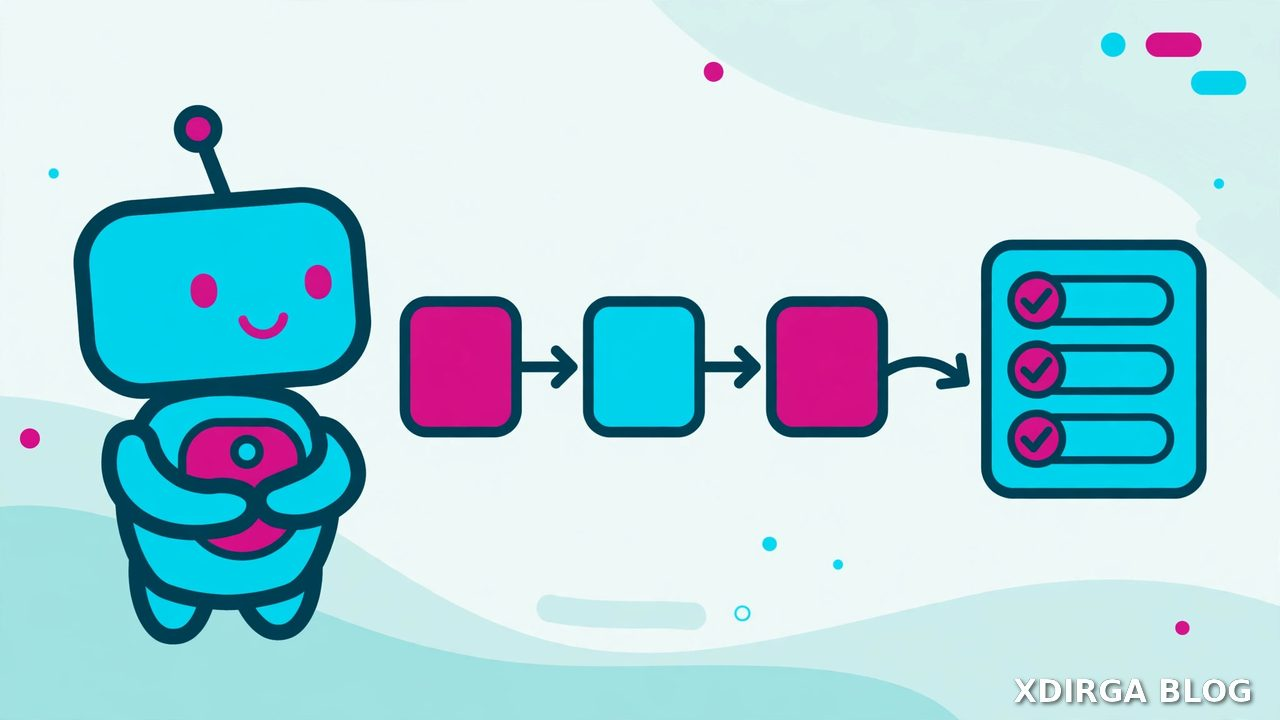
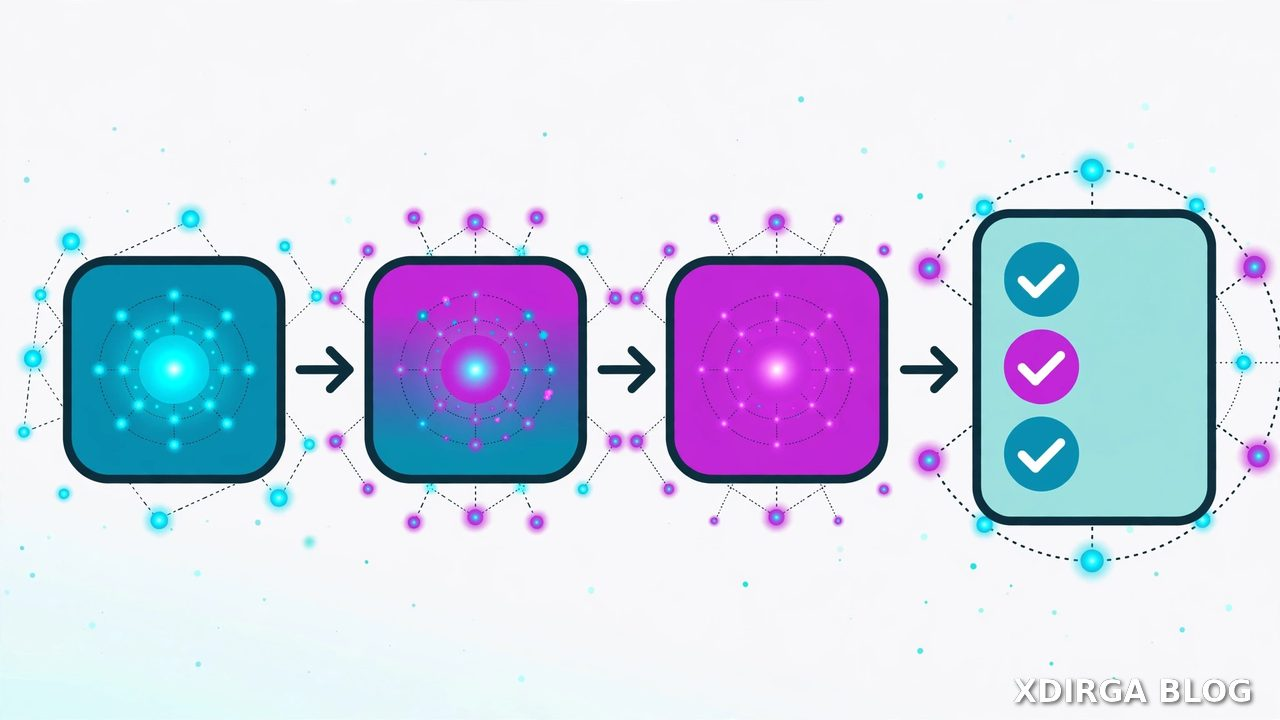
fix: ganti 3 cover berkarakter dengan gambar tanpa karakter (Manus, agen AI, pilih model)

diff --git a/src/content/articles/layanan-ai-gratis-makin-ketat.md b/src/content/articles/layanan-ai-gratis-makin-ketat.md
@@ -13,30 +13,30 @@ coverAlt: "Ilustrasi meteran jatah gratis yang menyempit dan dompet dengan koin"
 coverCaption: "Ilustrasi dibuat khusus untuk artikel ini."
 ---
 
-Kalau lo mengikuti dunia AI gratis, mungkin lo merasakan hal yang sama. Jatah yang dulu terasa longgar pelan pelan menyempit. Batas harian turun, antrean makin panjang, dan fitur yang dulu gratis pindah ke paket berbayar. Ini bukan kebetulan, dan bukan karena layanannya pelit.
+Kalau lo ngikutin dunia AI gratis, mungkin lo ngerasain hal yang sama. Jatah yang dulu terasa longgar pelan pelan menyempit. Batas harian turun, antrean makin panjang, dan fitur yang dulu gratis pindah ke paket berbayar. Ini bukan kebetulan, dan bukan karena layanannya pelit.
 
 ## Kenapa jatah gratis menyempit
 
-Ada tiga alasan yang saling berkaitan.
+Ada tiga alasan, dan ketiganya saling berkaitan.
 
-Pertama, biayanya nyata. Setiap jawaban yang dihasilkan model butuh komputasi, dan komputasi butuh listrik dan server. Makin banyak yang memakai, makin besar tagihannya. Layanan gratis dibiayai dari kantong perusahaan, dan kantong itu ada batasnya.
+Yang pertama soal biaya, dan biayanya nyata. Setiap jawaban yang dihasilkan model butuh komputasi, dan komputasi butuh listrik dan server. Makin banyak yang memakai, makin besar tagihannya. Layanan gratis dibiayai dari kantong perusahaan, dan kantong itu ada batasnya.
 
-Kedua, penyalahgunaan. Jatah gratis dipakai buat hal yang tidak dimaksudkan, misal menjalankan ribuan permintaan otomatis dari banyak akun. Satu penyalahguna bisa menghabiskan jatah ribuan pengguna biasa.
+Terus ada soal penyalahgunaan. Jatah gratis dipakai buat hal yang nggak dimaksudkan, misal jalanin ribuan permintaan otomatis dari banyak akun. Satu penyalahguna bisa ngabisin jatah ribuan pengguna biasa.
 
-Ketiga, perubahan model bisnis. Layanan gratis sering dipakai buat menarik pengguna baru. Setelah penggunanya cukup banyak, fokus bergeser ke yang berbayar. Ini pola yang sudah berulang di banyak layanan digital.
+Dan yang ketiga, perubahan model bisnis. Layanan gratis sering dipakai buat narik pengguna baru. Begitu penggunanya udah cukup banyak, fokus geser ke yang berbayar. Pola ini udah berulang di banyak layanan digital.
 
 ## Yang berubah buat pengguna
 
-Buat pengguna biasa, perubahan ini terasa dalam tiga hal. Batas harian yang dulu cukup buat seharian sekarang habis sebelum siang. Model yang dulu tersedia gratis sekarang cuma ada di paket berbayar. Dan fitur tambahan seperti unggah file besar atau riwayat panjang mulai dibatasi.
+Buat pengguna biasa, perubahannya kerasa langsung. Batas harian yang dulu cukup buat seharian sekarang habis sebelum siang. Model yang dulu tersedia gratis sekarang cuma ada di paket berbayar. Fitur tambahan kayak unggah file besar atau riwayat panjang juga mulai dibatasi.
 
 ## Cara menyikapinya
 
-Ada tiga langkah yang masuk akal.
+Ada tiga langkah yang masuk akal buat nyikapin ini.
 
-Pertama, jangan andalkan satu layanan. Punya dua atau tiga cadangan membuat kerjaan tidak berhenti saat satu layanan mengubah batasnya.
+Yang pertama, jangan andalkan satu layanan. Punya dua atau tiga cadangan bikin kerjaan nggak berhenti pas satu layanan mengubah batasnya.
 
-Kedua, pakai jatah gratis buat hal yang memang butuh model pintar. Buat tugas ringan, model yang lebih kecil atau tools lokal sering sudah cukup.
+Terus, pakai jatah gratis buat hal yang memang butuh model pintar. Buat tugas ringan, model yang lebih kecil atau tools lokal sering udah cukup.
 
-Ketiga, catat layanan mana yang masih memberi jatah tanpa tanggal berakhir. Daftar seperti itu berubah terus, jadi perlu dicek berkala. Di blog ini ada daftar API gratis yang masih jalan, dan akan diperbarui kalau ada perubahan.
+Terakhir, catat layanan mana yang masih ngasih jatah tanpa tanggal berakhir. Daftar kayak gitu berubah terus, jadi perlu dicek berkala. Di blog ini ada daftar API gratis yang masih jalan, dan bakal diperbarui kalau ada perubahan.
 
-Jatah gratis tidak akan hilang sepenuhnya. Tapi bentuknya akan terus berubah. Yang siap dengan cadangan akan baik baik saja, yang cuma mengandalkan satu layanan akan kerepotan setiap kali ada perubahan.
+Jatah gratis nggak bakal hilang sepenuhnya. Tapi bentuknya bakal terus berubah. Yang siap dengan cadangan bakal baik baik aja, yang cuma ngandelin satu layanan bakal kerepotan setiap kali ada perubahan.

diff --git a/src/content/articles/cara-kerja-rss.md b/src/content/articles/cara-kerja-rss.md
@@ -13,13 +13,13 @@ coverAlt: "Ilustrasi gelombang RSS mengalir ke tumpukan kartu artikel dan secang
 coverCaption: "Ilustrasi dibuat khusus untuk artikel ini."
 ---
 
-RSS sering dianggap teknologi jadul. Padahal cara kerjanya sederhana dan masih jalan sampai sekarang. Kalau lo capek dengan linimasa yang diatur algoritma, RSS adalah jalan keluarnya.
+RSS sering dicap teknologi jadul. Padahal cara kerjanya sederhana, dan sampai sekarang masih jalan. Kalau lo udah capek sama linimasa yang diatur algoritma, RSS itu jalan keluarnya.
 
 ## RSS itu apa
 
-RSS adalah berkas sederhana yang berisi daftar tulisan terbaru dari satu situs. Setiap situs yang mendukung RSS menyediakan alamat khusus, biasanya diakhiri dengan rss.xml. Berkas itu berisi judul, tautan, dan ringkasan tiap tulisan, dalam format yang bisa dibaca mesin.
+RSS itu berkas sederhana yang isinya daftar tulisan terbaru dari satu situs. Situs yang mendukung RSS nyediain alamat khusus, biasanya diakhiri rss.xml. Di dalam berkas itu ada judul, tautan, dan ringkasan tiap tulisan, dalam format yang bisa dibaca mesin.
 
-Pembaca RSS mengambil berkas itu secara berkala dan menampilkan tulisan baru dalam satu tempat. Lo tidak perlu membuka tiap situs satu satu. Semua tulisan baru dari situs yang lo ikuti muncul dalam satu daftar, urut berdasarkan waktu.
+Pembaca RSS ngambil berkas itu secara berkala, terus nampilin tulisan baru di satu tempat. Lo nggak perlu buka tiap situs satu satu. Semua tulisan baru dari situs yang lo ikuti muncul dalam satu daftar, urut berdasarkan waktu.
 
 ## Contoh isi berkas RSS
 
@@ -34,20 +34,20 @@ Satu item di dalam berkas RSS bentuknya kira kira seperti ini.
 </item>
 ```
 
-Tidak ada iklan, tidak ada pelacak, tidak ada algoritma yang memilihkan. Yang ada hanya daftar tulisan, urut dari yang terbaru.
+Nggak ada iklan, nggak ada pelacak, nggak ada algoritma yang milihin. Yang ada cuma daftar tulisan, urut dari yang terbaru.
 
 ## Kenapa masih berguna
 
-Ada tiga alasan RSS masih layak dipakai.
+Kenapa masih layak dipakai? Ada tiga alasan, dan ketiganya soal kendali.
 
-Pertama, lo yang memilih. Tidak ada algoritma yang menyembunyikan tulisan atau mendorong yang sedang viral. Yang muncul hanya dari situs yang lo ikuti sendiri.
+Yang pertama, lo yang memilih. Nggak ada algoritma yang nyembunyiin tulisan atau ndorong yang lagi viral. Yang muncul cuma dari situs yang lo ikuti sendiri.
 
-Kedua, tenang. Tidak ada notifikasi yang berlomba lomba menarik perhatian. Lo membuka pembaca RSS saat lo mau membaca, bukan saat aplikasi memanggil.
+Yang kedua, tenang. Nggak ada notifikasi yang rebutan narik perhatian. Lo buka pembaca RSS pas lo mau baca, bukan pas aplikasi manggil.
 
-Ketiga, awet. Situs boleh ganti desain, ganti platform, atau ganti pemilik. Selama alamat RSS-nya tetap, langganan lo tetap jalan.
+Yang ketiga, awet. Situs boleh ganti desain, ganti platform, atau ganti pemilik. Selama alamat RSS-nya tetap, langganan lo tetap jalan.
 
 ## Cara mulai
 
-Pilih satu aplikasi pembaca RSS, lalu tambahkan alamat RSS dari situs yang lo suka. Blog ini punya umpan di `/rss.xml`. Tambahkan, dan tulisan baru akan muncul sendiri tanpa perlu diingat.
+Tinggal pilih satu aplikasi pembaca RSS, terus tambahin alamat RSS dari situs yang lo suka. Blog ini punya umpan di `/rss.xml`. Tambahin, dan tulisan baru bakal muncul sendiri tanpa perlu diingat.
 
-Teknologi yang tenang seperti RSS jarang jadi berita, tapi justru itu kekuatannya. Dia bekerja diam diam, tanpa meminta perhatian, dan tetap jalan tahun demi tahun.
+Teknologi yang tenang kayak RSS jarang jadi berita. Justru itu kekuatannya. Dia kerja diam diam, tanpa minta perhatian, dan tetap jalan tahun demi tahun.

diff --git a/src/content/articles/lima-kebiasaan-kerja-rapi.md b/src/content/articles/lima-kebiasaan-kerja-rapi.md
@@ -13,26 +13,26 @@ coverAlt: "Ilustrasi meja kerja rapi dilihat dari atas dengan lima kartu tugas"
 coverCaption: "Ilustrasi dibuat khusus untuk artikel ini."
 ---
 
-Hari kerja yang berantakan jarang disebabkan satu masalah besar. Biasanya penyebabnya adalah banyak kekacauan kecil yang menumpuk. Lima kebiasaan di bawah ini sederhana, tapi efeknya terasa dalam seminggu.
+Hari kerja yang berantakan jarang disebabkan satu masalah besar. Biasanya penyebabnya banyak kekacauan kecil yang numpuk. Lima kebiasaan di bawah ini sederhana, tapi efeknya kerasa dalam seminggu.
 
 ## 1. Tulis tiga hal terpenting sebelum mulai
 
-Sebelum buka apa pun, tulis tiga hal yang harus selesai hari ini. Bukan sepuluh, cukup tiga. Tiga hal yang jelas bikin hari punya arah, dan sisanya jadi bonus.
+Sebelum buka apa pun, tulis tiga hal yang harus selesai hari ini. Bukan sepuluh, cukup tiga. Tiga hal yang jelas bikin hari punya arah. Sisanya jadi bonus.
 
 ## 2. Bereskan meja sebelum pulang
 
-Meja yang bersih di pagi hari bikin kepala ikut bersih. Lima menit sebelum pulang cukup buat merapikan, menutup tab yang tidak perlu, dan menulis satu kalimat soal apa yang dilanjutkan besok.
+Meja yang bersih di pagi hari bikin kepala ikut bersih. Lima menit sebelum pulang cukup buat merapikan, nutup tab yang nggak perlu, dan nulis satu kalimat soal apa yang dilanjutin besok.
 
 ## 3. Satu tugas, satu waktu
 
-Pindah pindah tugas itu terasa sibuk, padahal hasilnya sedikit. Kerjakan satu tugas sampai satu titik berhenti yang jelas, baru pindah. Otak tidak dirancang buat lompat lompat, dan kualitas kerja ikut turun setiap kali pindah.
+Pindah pindah tugas itu terasa sibuk, padahal hasilnya dikit. Kerjain satu tugas sampai satu titik berhenti yang jelas, baru pindah. Otak nggak dirancang buat lompat lompat, dan kualitas kerja ikut turun setiap kali pindah.
 
 ## 4. Catat, jangan dihafal
 
-Semua janji, semua permintaan, semua hal yang harus diingat, tulis di satu tempat. Otak yang dipakai buat menghafal tidak bisa dipakai buat berpikir. Satu tempat catatan yang konsisten lebih berharga daripada ingatan yang kuat.
+Semua janji, semua permintaan, semua hal yang harus diinget, tulis di satu tempat. Otak yang dipakai buat menghafal nggak bisa dipakai buat berpikir. Satu tempat catatan yang konsisten lebih berharga daripada ingatan yang kuat.
 
 ## 5. Tutup hari dengan review singkat
 
-Sebelum selesai, luangkan dua menit untuk melihat apa yang selesai dan apa yang tertunda. Bukan buat menyalahkan diri, tapi supaya besok tidak mulai dari kebingungan. Hari yang ditutup dengan jelas bikin besok dimulai dengan tenang.
+Sebelum selesai, luangin dua menit buat lihat apa yang selesai dan apa yang tertunda. Bukan buat nyalahin diri, tapi supaya besok nggak mulai dari kebingungan. Hari yang ditutup dengan jelas bikin besok dimulai dengan tenang.
 
-Tidak perlu menerapkan kelimanya sekaligus. Pilih satu, jalankan seminggu, lalu tambah satu lagi. Kebiasaan kecil yang bertahan jauh lebih kuat daripada rencana besar yang cuma bertahan sehari.
+Nggak perlu nerapin kelimanya sekaligus. Pilih satu, jalanin seminggu, terus tambah satu lagi. Kebiasaan kecil yang bertahan jauh lebih kuat daripada rencana besar yang cuma bertahan sehari.

diff --git a/src/content/articles/cara-menulis-catatan-belajar.md b/src/content/articles/cara-menulis-catatan-belajar.md
@@ -13,21 +13,21 @@ coverAlt: "Ilustrasi buku catatan terbuka dengan pola garis abstrak dan kaca pem
 coverCaption: "Ilustrasi dibuat khusus untuk artikel ini."
 ---
 
-Pernah nggak sih, lo udah pernah belajar satu hal, terus pas butuh lagi lo lupa di mana nyatetnya. Akhirnya belajar ulang dari nol. Masalahnya jarang di otaknya, tapi di catatannya yang nggak bisa dicari.
+Pernah nggak sih, lo udah pernah belajar satu hal, terus pas butuh lagi lo lupa di mana nyatetnya. Akhirnya belajar ulang dari nol. Masalahnya jarang di otaknya. Masalahnya di catatannya yang nggak bisa dicari.
 
 ## Tulis dengan kata yang bakal lo cari
 
-Waktu nulis catatan, bayangkan lo sedang mencari catatan itu seminggu lagi. Kata apa yang bakal lo ketik di kolom pencarian. Pakai kata itu di judul dan di kalimat pertama. Judul yang bagus itu judul yang ketemu saat dicari, bukan judul yang puitis.
+Waktu nulis catatan, bayangin lo lagi nyari catatan itu seminggu lagi. Kata apa yang bakal lo ketik di kolom pencarian? Pakai kata itu di judul dan di kalimat pertama. Judul yang bagus itu judul yang ketemu pas dicari, bukan judul yang puitis.
 
 > Catatan yang tidak bisa ditemukan sama saja dengan catatan yang tidak pernah ditulis.
 
 ## Satu catatan, satu hal
 
-Satu catatan sebaiknya membahas satu hal saja. Kalau satu halaman berisi lima topik, kelimanya jadi susah dicari. Pecah jadi lima catatan kecil dengan judul yang jelas. Mencari jadi lebih cepat, dan membaca ulang jadi lebih ringan.
+Satu catatan sebaiknya bahas satu hal aja. Kalau satu halaman isinya lima topik, kelimanya jadi susah dicari. Pecah jadi lima catatan kecil dengan judul yang jelas. Nyarinya jadi lebih cepat, dan baca ulangnya jadi lebih ringan.
 
 ## Tulis kesimpulan di atas, detail di bawah
 
-Mulai catatan dengan dua atau tiga kalimat kesimpulan. Setelah itu baru tulis detail, langkah, dan contoh. Dengan cara ini, lo bisa mengingat isi catatan hanya dengan membaca tiga kalimat pertama.
+Mulai catatan dengan dua atau tiga kalimat kesimpulan. Baru setelah itu tulis detail, langkah, dan contoh. Dengan cara ini, lo bisa inget isi catatan cuma dengan baca tiga kalimat pertama.
 
 ## Tambah contoh, bukan cuma teori
 
@@ -35,6 +35,6 @@ Teori tanpa contoh gampang menguap. Satu contoh nyata lebih nempel daripada tiga
 
 ## Rapikan seminggu sekali
 
-Sisihkan waktu singkat tiap minggu buat merapikan catatan. Gabungkan yang dobel, perbaiki judul yang kabur, dan hapus yang sudah tidak relevan. Catatan yang dirawat sedikit demi sedikit jauh lebih berguna daripada arsip besar yang tidak pernah dibuka lagi.
+Sisihin waktu singkat tiap minggu buat merapikan catatan. Gabungin yang dobel, perbaiki judul yang kabur, dan hapus yang udah nggak relevan. Catatan yang dirawat dikit dikit jauh lebih berguna daripada arsip besar yang nggak pernah dibuka lagi.
 
-Mulai dari satu kebiasaan saja, tulis judul yang gampang dicari. Sisanya akan mengikuti.
+Mulai dari satu kebiasaan aja, tulis judul yang gampang dicari. Sisanya bakal ngikutin.

diff --git a/src/content/articles/7-api-llm-gratis-tanpa-tanggal-berakhir.md b/src/content/articles/7-api-llm-gratis-tanpa-tanggal-berakhir.md
@@ -13,7 +13,7 @@ coverAlt: "Ilustrasi jaringan node API dengan alur cahaya magenta dan cyan"
 coverCaption: "Ilustrasi dibuat khusus untuk artikel ini."
 ---
 
-Dari 42 API yang dicek di llmlatency.dev, 7 kasih gratis tanpa tanggal berakhir. Sisanya, 16 kasih kredit sekali pakai buat akun baru dan 9 nggak kasih gratis sama sekali. Dan perlu dicatat, nggak ada satu pun yang tanpa batas.
+Dari 42 API yang dicek di llmlatency.dev, cuma 7 yang kasih gratis tanpa tanggal berakhir. 16 lainnya ngasih kredit sekali pakai buat akun baru, dan 9 nggak ngasih gratis sama sekali. Satu hal yang perlu dicatat dari awal, nggak ada satu pun yang tanpa batas.
 
 ## Daftarnya
 
@@ -27,22 +27,22 @@ Dari 42 API yang dicek di llmlatency.dev, 7 kasih gratis tanpa tanggal berakhir.
 | Gemini API | Token gratis terbatas, konten tier gratis dipakai Google buat improve produk |
 | SenseNova | Nol yuan per bulan selama beta publik |
 
-**OpenRouter.** Paling cepat, median TTFB 67 ms di halaman live. Yang gratis dibatasi 20 request per menit dan 50 per hari, naik jadi 1.000 per hari setelah beli minimal 10 kredit.
+**OpenRouter.** Paling cepat dari semuanya, median TTFB 67 ms di halaman live. Jatah gratisnya 20 request per menit dan 50 per hari, naik jadi 1.000 per hari setelah beli minimal 10 kredit.
 
-**Cohere.** Trial key 1.000 panggilan per bulan, cukup buat testing dan bukan buat produksi.
+**Cohere.** Trial key 1.000 panggilan per bulan. Buat testing sih cukup, buat produksi jangan harap.
 
-**GroqCloud.** Paket Free, tanpa kartu buat naik ke Developer.
+**GroqCloud.** Paket Free, dan naik ke Developer nggak butuh kartu.
 
 **Novita AI.** Satu model nol dolar, Apodex 1.1 Mini.
 
 **Z.AI.** GLM Flash gratis, buat input dan output.
 
-**Gemini API.** Token gratis terbatas, dengan catatan konten tier gratis dipakai Google buat improve produk.
+**Gemini API.** Token gratisnya terbatas, dan ada catatan penting, konten tier gratis dipakai Google buat improve produk.
 
-**SenseNova.** Nol yuan per bulan selama beta publik, platform dari China.
+**SenseNova.** Nol yuan per bulan selama beta publik. Platform ini dari China.
 
 ## Buat yang bangun agen sendiri
 
-Dari 7 ini, 5 bisa dipakai di OpenClaw, Hermes Agent, dan n8n. Jadi buat yang bangun agen sendiri, daftar ini langsung kepakai. Mulai dari yang batasnya paling longgar buat kebutuhanmu, dan jangan andalkan satu layanan saja buat produksi, karena batas gratis bisa berubah sewaktu waktu.
+Dari 7 ini, 5 bisa dipakai di OpenClaw, Hermes Agent, dan n8n. Jadi buat yang bangun agen sendiri, daftar ini langsung kepakai. Mulai dari yang batasnya paling longgar buat kebutuhanmu. Dan jangan andalkan satu layanan saja buat produksi, batas gratis bisa berubah sewaktu waktu.
 
 Sumber data [llmlatency.dev](https://llmlatency.dev/free-llm-api), dicek 11 November 2026.

diff --git a/src/content/articles/manus-free-300-kredit-sehari.md b/src/content/articles/manus-free-300-kredit-sehari.md
@@ -13,16 +13,16 @@ coverAlt: "Ilustrasi agen AI lucu bekerja di laptop dengan kartu tugas selesai"
 coverCaption: "Ilustrasi dibuat khusus untuk artikel ini."
 ---
 
-Ada yang nanya kemarin agen AI apa yang bisa dicoba gratisan tanpa kartu kredit. Nah ini salah satu yang masih jalan. Manus yang versi gratis ngasih 300 kredit tiap hari buat dipakai di mode Lite. Satu tugas nyata sehari itu cukup banget buat ngetes, misal disuruh riset topik, nyusun dokumen, atau beresin spreadsheet.
+Ada yang nanya kemarin, agen AI apa yang bisa dicoba gratisan tanpa kartu kredit. Nah, ini salah satu yang masih jalan. Manus versi gratis ngasih 300 kredit tiap hari buat dipakai di mode Lite. Satu tugas nyata sehari itu udah cukup banget buat ngetes. Suruh dia riset satu topik, nyusun dokumen, atau beresin spreadsheet, terus lihat hasilnya.
 
 ## Yang perlu diperhatikan
 
-Jujur aja ada batasnya. Kreditnya cuma berlaku di mode Lite, jadi bukan versi paling pintarnya. Terus tiap hari reset jam 7 pagi waktu kita, sisa kemarin hangus, nggak bisa ditabung. Sebulan mentok 1.500 kredit dan cuma bisa jalanin satu tugas dalam satu waktu. Lumayannya, dua tugas bisa dijadwalin otomatis.
+Ada batasnya, dan batasnya lumayan ketat. Kreditnya cuma berlaku di mode Lite, jadi bukan versi paling pintarnya. Tiap hari reset jam 7 pagi waktu kita, sisa kemarin hangus, nggak bisa ditabung. Sebulan mentok 1.500 kredit, dan cuma bisa jalanin satu tugas dalam satu waktu. Lumayannya, dua tugas bisa dijadwalin otomatis.
 
 ## Buat siapa ini cocok
 
-Kalau lo baru pertama kali nyentuh agen AI, ini titik masuk yang paling gampang. Nggak ada kartu kredit, nggak ada komitmen, dan besok paginya kredit balik lagi 300. Coba satu tugas kecil dulu, misal minta riset lima sumber soal satu topik, lalu lihat hasilnya. Kalau hasilnya kepakai, baru pikirin apakah mode berbayarnya sepadan.
+Kalau lo baru pertama kali nyentuh agen AI, ini titik masuk yang paling gampang. Nggak ada kartu kredit, nggak ada komitmen. Besok paginya kredit balik lagi 300, jadi lo bisa coba lagi tanpa mikir.
 
-Tapi buat sekadar nyoba rasanya punya agen yang kerja sendiri, ini udah lebih dari cukup. Gratis, nggak pakai kartu, dan besok paginya kreditnya balik lagi 300. Kalau nanti udah ketagihan baru mikir yang berbayar.
+Mulai dari tugas kecil dulu. Minta riset lima sumber soal satu topik, terus lihat hasilnya. Kalau hasilnya kepakai, baru pikirin apakah mode berbayarnya sepadan. Buat sekadar nyoba rasanya punya agen yang kerja sendiri, yang gratis ini udah lebih dari cukup.
 
 Sumber tulisan ini [Medium](https://medium.com/@larkgrass/best-free-ai-agents-in-2026-what-you-get-for-0-f57a5a8167d2).

diff --git a/src/content/articles/rutinitas-pagi-sebelum-buka-laptop.md b/src/content/articles/rutinitas-pagi-sebelum-buka-laptop.md
@@ -13,20 +13,20 @@ coverAlt: "Ilustrasi pagi yang tenang, matahari terbit di jendela, kopi, dan lap
 coverCaption: "Ilustrasi dibuat khusus untuk artikel ini."
 ---
 
-Banyak panduan rutinitas pagi yang terdengar mustahil. Bangun jam 4, olahraga satu jam, meditasi, baca buku, lalu baru kerja. Buat yang hidupnya nyata, rutinitas seperti itu justru bikin stres sebelum hari dimulai.
+Banyak panduan rutinitas pagi yang kedengeran mustahil. Bangun jam 4, olahraga satu jam, meditasi, baca buku, lalu baru kerja. Buat yang hidupnya nyata, rutinitas kayak gitu justru bikin stres sebelum hari dimulai.
 
-Rutinitas yang bertahan adalah rutinitas yang sederhana. Cukup tiga langkah, totalnya tidak sampai setengah jam.
+Rutinitas yang bertahan itu yang sederhana. Cukup tiga langkah, totalnya nggak sampai setengah jam.
 
 ## Air dulu, layar belakangan
 
-Minum air putih sebelum menyentuh layar. Badan yang baru bangun itu dehidrasi, dan layar langsung bikin kepala penuh sebelum sempat sadar. Lima belas menit tanpa layar di pagi hari rasanya aneh di awal, tapi bikin sisanya lebih tenang.
+Minum air putih dulu sebelum nyentuh layar. Badan yang baru bangun itu dehidrasi, dan layar langsung bikin kepala penuh sebelum sempat sadar. Lima belas menit tanpa layar di pagi hari rasanya aneh di awal, tapi bikin sisanya lebih tenang.
 
 ## Bergerak sebentar, bukan olahraga berat
 
-Tidak perlu olahraga penuh. Peregangan ringan, jalan sebentar, atau sekadar berdiri dan menggerakkan badan sudah cukup. Tujuannya bukan kebugaran, tapi membangunkan badan supaya tidak kaku sepanjang hari.
+Nggak perlu olahraga penuh. Peregangan ringan, jalan sebentar, atau sekadar berdiri dan nggerakin badan udah cukup. Tujuannya bukan kebugaran, tapi membangunkan badan supaya nggak kaku sepanjang hari.
 
 ## Tentukan satu hal yang paling penting
 
-Sebelum buka laptop, tentukan satu hal yang paling penting hari ini. Satu saja. Kalau satu hal itu selesai, hari ini sudah berhasil, apa pun yang terjadi setelahnya.
+Sebelum buka laptop, tentuin satu hal yang paling penting hari ini. Satu aja. Kalau satu hal itu selesai, hari ini udah berhasil, apa pun yang terjadi setelahnya.
 
-Rutinitas pagi yang bagus bukan yang paling panjang, tapi yang paling gampang diulang. Kalau bisa dilakukan saat sedang lelah dan sedang sibuk, itu rutinitas yang benar.
+Yang bikin rutinitas pagi bagus itu gampang diulangnya, bukan panjangnya. Kalau bisa dilakuin pas lagi lelah dan lagi sibuk, itu rutinitas yang bener.

diff --git a/docs/master-build-prompt.md b/docs/master-build-prompt.md
@@ -329,7 +329,7 @@ FEATURED IMAGE:
 - Responsive aspect ratio.
 - Proper alt text.
 - Optional image caption and credit.
-- COVER IMAGE RULE (durable, 2026-11-14): every article MUST have at least 1 generated image (hero/content). Images are generated, never stock photos. Pipeline: generate a 16:9 hero image in the LIME palette with no text, letters, logo, or watermark baked in, then run `scripts/watermark-covers.py` which resizes to 1280x720 and adds a small "XDIRGA BLOG" watermark at the bottom-right corner (white text with a soft dark shadow), saving JPG quality 82 to `public/covers/<slug>.jpg`. Never ask the AI to add the watermark. Set frontmatter `cover` to the JPG path and `coverAlt` to an honest description of the image.
+- COVER IMAGE RULE (durable, 2026-11-14): every article MUST have at least 1 generated image (hero/content). Images are generated, never stock photos. Pipeline: generate a 16:9 hero image in the LIME palette with no text, letters, logo, or watermark baked in, then run `scripts/watermark-covers.py` which resizes to 1280x720 and adds a small "XDIRGA BLOG" watermark at the bottom-right corner (white text with a soft dark shadow), saving JPG quality 82 to `public/covers/<slug>.jpg`. Never ask the AI to add the watermark. Set frontmatter `cover` to the JPG path and `coverAlt` to an honest description of the image. **NO CHARACTERS in cover images (durable rule, 2026-11-14): no humans, animals, robots, mascots, creatures, or faces in any form — only objects, scenes, people-free workspaces, devices, diagrams, or abstract compositions. Reason: a character resembling an existing commercial character risks IP/trademark claims on a public blog.**
 
 ARTICLE BODY:
 

diff --git a/AGENTS.md b/AGENTS.md
@@ -14,7 +14,7 @@ Manage the background server with `astro dev stop`, `astro dev status`, and `ast
 - Deploy ke Cloudflare Pages: `npm run build` lalu `python3 cf_pages_direct_upload.py` (repo belum GitHub-connected, jadi push tidak auto-deploy).
 - QA otomatis: server statis di port 8321, lalu `node scripts/qa-check.mjs` (rute, draf, tautan internal, overflow 360/1280px, dark mode, screenshot ke `/tmp/qa-shots/`).
 - Palet LIME (magenta + cyan/teal). Palet hijau di master prompt DIBATALKAN TOTAL. Jangan kembalikan warna hijau.
-- Gambar cover artikel: WAJIB minimal 1 gambar per artikel, hasil generate (media.generate_image, 16:9, palet LIME, tanpa teks di dalam gambar) + watermark kecil "XDIRGA BLOG" pojok kanan bawah via `scripts/watermark-covers.py` (PIL, JPG kualitas 82, ke `public/covers/<slug>.jpg`). Jangan pernah minta AI menambahkan watermark. Cover SVG lama sudah dihapus total 2026-11-14.
+- Gambar cover artikel: WAJIB minimal 1 gambar per artikel, hasil generate (media.generate_image, 16:9, palet LIME, tanpa teks di dalam gambar) + watermark kecil "XDIRGA BLOG" pojok kanan bawah via `scripts/watermark-covers.py` (PIL, JPG kualitas 82, ke `public/covers/<slug>.jpg`). Jangan pernah minta AI menambahkan watermark. Cover SVG lama sudah dihapus total 2026-11-14. **TANPA KARAKTER (aturan durable 2026-11-14): tidak ada manusia, hewan, robot, maskot, makhluk, atau wajah di gambar cover dalam bentuk apa pun — hanya objek, scene, workspace tanpa orang, perangkat, diagram, atau abstrak. Alasan: bahaya klaim IP/trademark di blog publik.**
 
 ## Documentation
 

diff --git a/README.md b/README.md
@@ -40,7 +40,7 @@ coverAlt: "Ilustrasi artikel Judul Artikel"
 
 Setiap artikel WAJIB punya minimal 1 gambar (hero/konten). Gambar di-generate sendiri, bukan foto stok. Pipeline-nya:
 
-1. Generate gambar hero 16:9 (sekitar 1280x720 atau lebih besar) dengan `media.generate_image`, gaya editorial modern yang bersih, sesuai topik artikel, palet LIME (magenta, cyan, teal gelap, dasar putih teal). Jangan ada teks, huruf, logo, atau watermark di dalam hasil generate.
+1. Generate gambar hero 16:9 (sekitar 1280x720 atau lebih besar) dengan `media.generate_image`, gaya editorial modern yang bersih, sesuai topik artikel, palet LIME (magenta, cyan, teal gelap, dasar putih teal). Jangan ada teks, huruf, logo, atau watermark di dalam hasil generate. **JANGAN ADA KARAKTER di gambar (aturan durable 2026-11-14): tidak ada manusia, hewan, robot, maskot, makhluk, atau wajah dalam bentuk apa pun — hanya objek, scene, workspace tanpa orang, perangkat, diagram, atau komposisi abstrak. Alasan: karakter yang mirip karakter komersial yang sudah ada bisa kena klaim IP/trademark di blog publik.**
 2. Jalankan `python3 scripts/watermark-covers.py` — script ini resize ke 1280x720 lalu menambahkan watermark kecil "XDIRGA BLOG" di pojok kanan bawah (putih dengan bayangan gelap halus), dan menyimpan hasilnya sebagai JPG kualitas 82 ke `public/covers/<slug>.jpg`. Watermark selalu ditambahkan oleh script, jangan pernah minta AI menambahkan watermark.
 3. Set frontmatter `cover: /covers/<slug>.jpg` dan `coverAlt` yang jujur (mendeskripsikan isi gambar).
 

diff --git a/src/content/articles/selamat-datang-di-blog-xdirga.md b/src/content/articles/selamat-datang-di-blog-xdirga.md
@@ -15,7 +15,7 @@ coverCaption: "Ilustrasi dibuat khusus untuk artikel ini."
 
 Halo, selamat datang di blog XDIRGA.
 
-Blog ini tempat gue nyatet soal AI, tools gratis, dan hal hal yang gue coba sendiri. Bukan teori, bukan janji manis, tapi yang udah gue pegang langsung dan gue ukur sendiri.
+Blog ini tempat gue nyatet soal AI, tools gratis, dan hal hal yang gue coba sendiri. Bukan teori, bukan janji manis. Yang udah gue pegang langsung dan gue ukur sendiri.
 
 Isinya bakal campur. Kadang soal agen AI gratis, kadang soal API yang masih kasih jatah gratis, kadang soal hal teknis lain yang lagi gue kerjain. Semua ditulis mengalir, kayak ngobrol, bukan kayak dokumentasi.
 

diff --git a/src/content/articles/catatan-draft-contoh.md b/src/content/articles/catatan-draft-contoh.md
@@ -12,4 +12,4 @@ cover: /covers/catatan-draft-contoh.jpg
 coverAlt: "Ilustrasi sketsa buku catatan dengan pensil dan ide lampu yang belum selesai"
 ---
 
-Ini adalah draf contoh yang sengaja dibuat untuk menguji filter draf. Kalau tulisan ini muncul di halaman mana pun, berarti ada yang salah dengan filternya.
+Ini draf contoh yang sengaja dibuat buat ngetes filter draf. Kalau tulisan ini muncul di halaman mana pun, berarti ada yang salah sama filternya.
